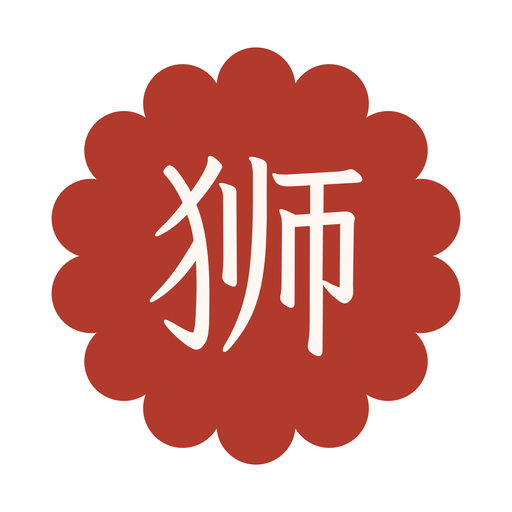
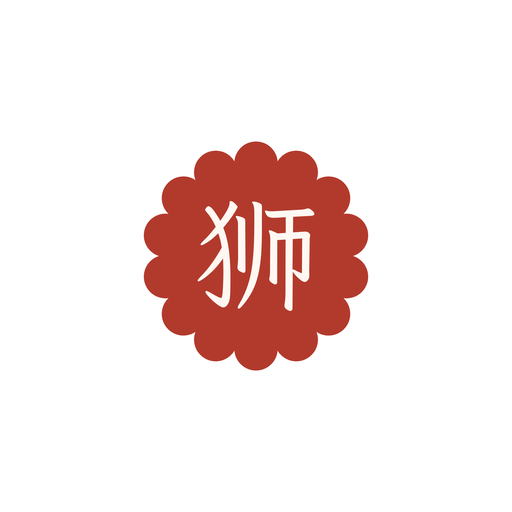
v3.45.91: plain white start screen with a smaller seal
When the app opens on Android, the launch screen now has a white background
(manifest background_color, was cream) and the red 狮 seal is about half its
old size: icon-512.png now has the seal at 45% of the square instead of 82%.
The home-screen icon is unchanged, since Android draws it from the maskable
icon.

diff --git a/sw.js b/sw.js
@@ -2,7 +2,7 @@
    - The app page itself: try the internet first (so updates arrive), fall back to the saved copy.
    - Fonts, libraries, icons, stroke data: use the saved copy, fetch once if missing.
    - Pinyin lookups are never cached here (the app caches them itself). */
-const CACHE = 'moka2-v335';   // moka2 test copy: its own caches
+const CACHE = 'moka2-v336';   // moka2 test copy: its own caches
 const CORE = ['./', './index.html', './manifest.webmanifest', './icons/icon-192.png', './icons/icon-512.png', './icons/logo.svg', './icons/seal.svg', './mascots/shi-shi.svg',
   'https://cdn.jsdelivr.net/npm/hanzi-writer@3.7.2/dist/hanzi-writer.min.js',
   'https://cdn.jsdelivr.net/npm/pinyin-pro@3.26.0/dist/index.js'];

diff --git a/index.html b/index.html
@@ -14710,7 +14710,7 @@ function mountHsk() {
 
 /* ---------- install + updates ---------- */
 // For every release: raise APP_VERSION here AND "version" in version.json (same number).
-const APP_VERSION = '3.45.90';
+const APP_VERSION = '3.45.91';
 let installEvt = null;
 addEventListener('beforeinstallprompt', e => { e.preventDefault(); installEvt = e; });
 addEventListener('appinstalled', () => { installEvt = null; toast('ShiHanzi is on your home screen'); });
